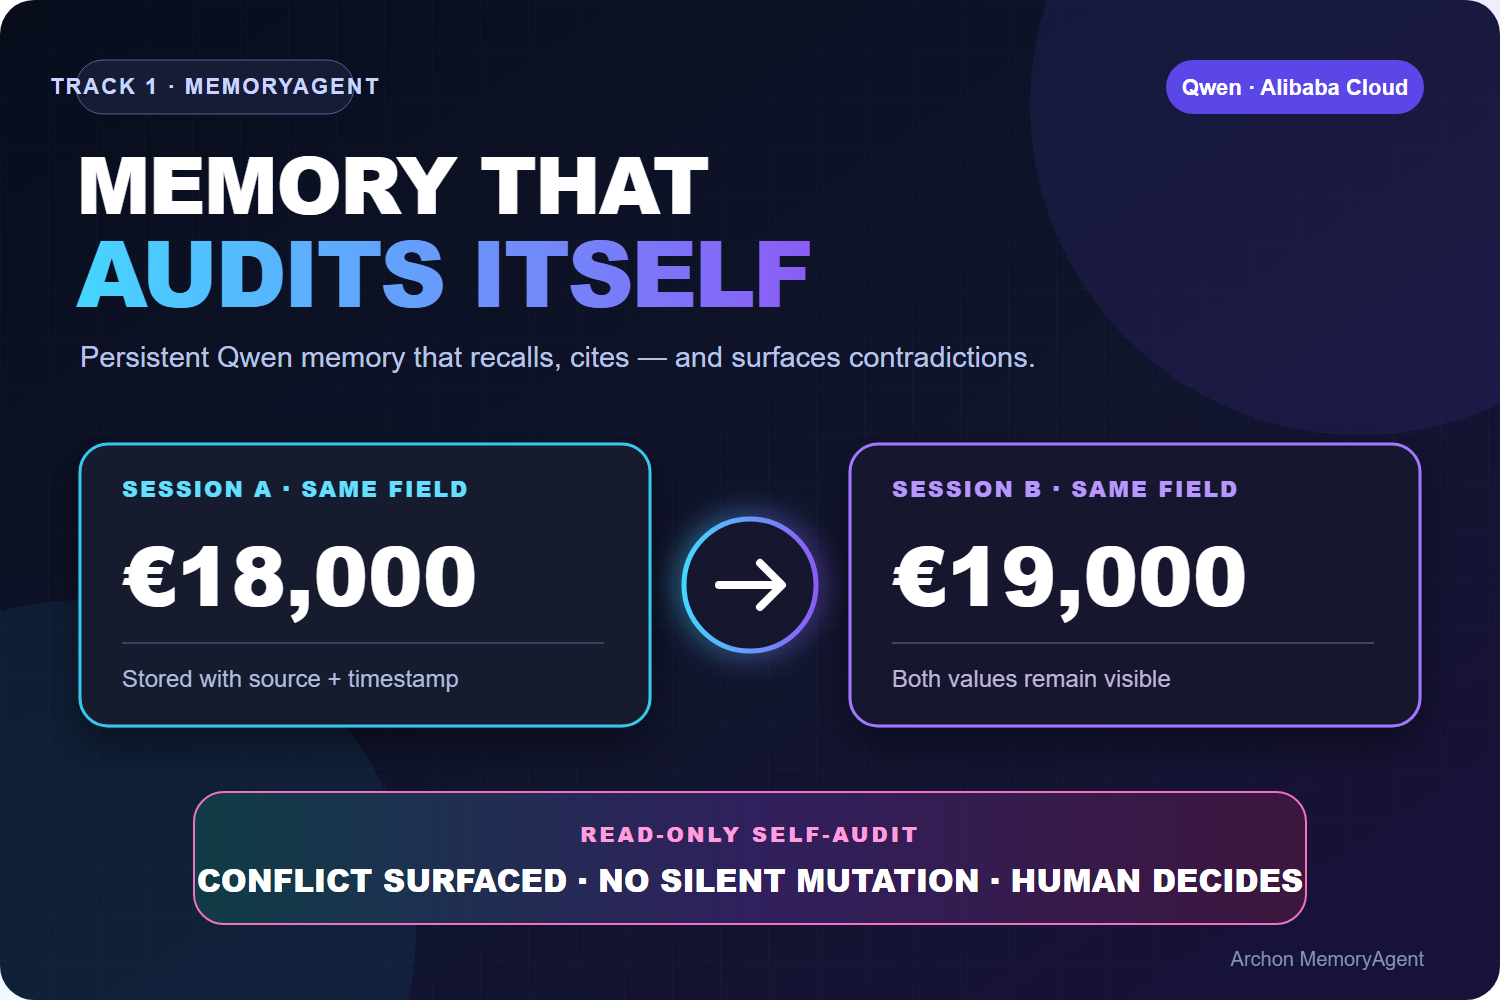
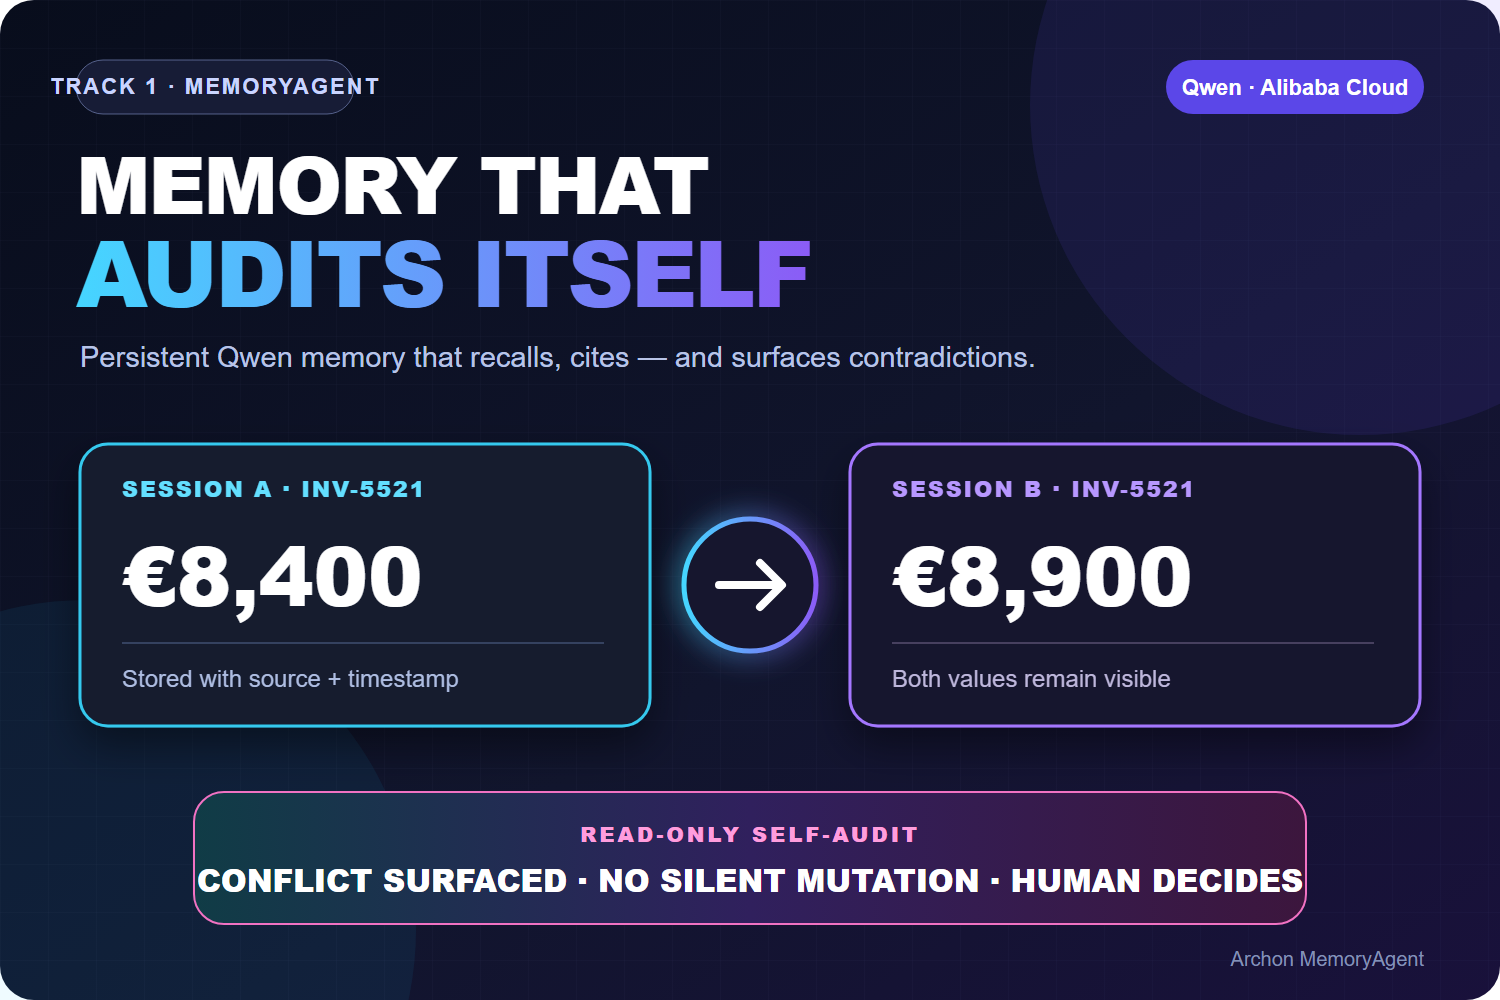
docs: unify submission proof and claims

diff --git a/scripts/capture_submission_gallery.py b/scripts/capture_submission_gallery.py
@@ -756,7 +756,7 @@ def browser_capture(
             GALLERY / PRIMARY_OUTPUTS[0],
             eyebrow="Fresh session · bounded recall",
             title="Qwen answers from durable memory — with citations",
-            subtitle="A new browser session asks by meaning; pgvector recall supplies the bounded evidence and qwen-plus grounds the answer in numbered sources.",
+            subtitle="On original synthetic demo data, a new browser session asks by meaning; pgvector supplies bounded evidence and qwen-plus grounds the answer in numbered sources.",
             badges=("qwen-plus", f"{len(recall['citations'])} citations", "pgvector"),
             base_url=base_url,
             expected_sha=expected_sha,
@@ -786,7 +786,7 @@ def browser_capture(
             GALLERY / PRIMARY_OUTPUTS[1],
             eyebrow="Read-only self-audit",
             title="Both values stay visible. Policy recommends — never rewrites.",
-            subtitle="INV-5521 preserves Session A and Session B provenance, then recommends the later 8,900 value under the declared recency rule.",
+            subtitle="Original synthetic INV-5521 preserves both sessions' provenance, then recommends the later 8,900 value under the declared recency rule.",
             badges=("INV-5521", "8,400 ↔ 8,900", "read-only"),
             base_url=base_url,
             expected_sha=expected_sha,
@@ -830,7 +830,7 @@ def browser_capture(
             GALLERY / PRIMARY_OUTPUTS[2],
             eyebrow="Meaning-level self-audit",
             title="Qwen catches the contradiction metadata rules cannot see",
-            subtitle="“Always pays on time” and “chronically late” share no numeric field. A bounded qwen-plus judge detects the opposed meaning and returns a read-only recommendation.",
+            subtitle="Original synthetic vendor claims share no numeric field. A bounded qwen-plus judge detects their opposed meaning and returns a read-only recommendation.",
             badges=(str(judge["model"]), f"{semantic.get('compared')} pair compared", "credential absent"),
             base_url=base_url,
             expected_sha=expected_sha,

diff --git a/demo/DEVPOST_STAGING.md b/demo/DEVPOST_STAGING.md
@@ -96,11 +96,31 @@ Use or edit this only if the form asks for tool feedback:
 
 ## Step 4 — additional information / custom questions
 
-- Paste the Track, repository, Alibaba proof, architecture and build-window answers
-  above into the matching custom fields, even if already present in the story.
-- For testing instructions, use the public no-login block in
-  [`DEVPOST_PRIVATE_TESTING.md`](./DEVPOST_PRIVATE_TESTING.md). Add the protected
-  credential block only through a visibility-confirmed judge/organizer channel.
+The live 2026-07-16 form exposes the following fields. Values marked **human** must
+be confirmed by the entrant and entered directly; the repository intentionally does
+not guess or retain them.
+
+| Actual Devpost field | Exact value / action |
+|---|---|
+| Submitter type | `[HUMAN CONFIRM: Individual / Team / Organization]` |
+| Organization name | Leave blank only if the confirmed submitter type is Individual/Team and no organization applies. |
+| Country of residence | `[HUMAN CONFIRM AND ENTER DIRECTLY]` — appears publicly in the gallery. |
+| Newly built or previously existing | **New** — the distinct entry repository starts 2026-07-01; retain the reuse disclosure below. |
+| Start date | **07-01-26** |
+| Required pre-May-26/update explanation | **Not applicable — this is a new competition-period project started July 1, 2026. It carries forward the Archon name and financial-analysis context only. During the submission period we built the standalone Qwen/Alibaba persistent memory store, hybrid recall and reranking, field- and meaning-level self-audits, explicit human conflict resolution, lifecycle controls, REST/MCP boundaries, evaluations, CI, and live deployment. Reused context is disclosed and is not claimed as newly authored evidence.** |
+| Track | **Track 1: MemoryAgent** |
+| Code repository | <https://github.com/upgradedev/archon-qwen-memoryagent> |
+| Alibaba/Qwen code file | <https://github.com/upgradedev/archon-qwen-memoryagent/blob/main/src/qwen/client.ts> |
+| Architecture Diagram upload | [`final-media/judge-architecture.jpg`](./final-media/judge-architecture.jpg) |
+| Alibaba Deployment Screenshot upload | [`gallery/08-alibaba-runtime-proof.png`](./gallery/08-alibaba-runtime-proof.png), only after `CAPTURE_REVIEW.json` passes for the exact deployment. |
+| Published Blog or Social Post | `[PUBLIC_BLOG_OR_SOCIAL_URL]`, only after signed-out verification. |
+| AI tools leveraged | **Qwen Cloud models (qwen-plus, qwen-vl-max, text-embedding-v4), OpenAI Codex, and Anthropic Claude.** |
+| Learning level | **Significant** |
+| Age-of-majority attestation | `[HUMAN LEGAL ATTESTATION REQUIRED]` |
+| Eligible-jurisdiction attestation | `[HUMAN LEGAL ATTESTATION REQUIRED]` |
+| Sponsor/affiliate/government-employment attestation | `[HUMAN LEGAL ATTESTATION REQUIRED]` |
+| Testing Instructions | Paste the public block from [`DEVPOST_PRIVATE_TESTING.md`](./DEVPOST_PRIVATE_TESTING.md), then add the active credential only in this judges-visible field after exact-deploy canaries pass. |
+
 - Confirm every entered answer is English.
 - Do not infer privacy from a field name. Save the draft, then inspect its public
   preview logged out before any live credential is added.

diff --git a/demo/VIDEO_SCRIPT.md b/demo/VIDEO_SCRIPT.md
@@ -20,7 +20,7 @@ time the candidate is not claimed as deployed and the recording gate is red.
 | 2 · Exact live proof | 0:14–0:29 | Sanitized exact-SHA release card, `/health`, then `/ready` | Keep commit provenance separate from endpoint/model readiness. Never imply `/health` attests the Git commit. |
 | 3 · Architecture + scale path | 0:29–0:53 | [`final-media/judge-architecture.jpg`](./final-media/judge-architecture.jpg), held long enough to read | Trace evidence → trust edge → Qwen → pgvector → hybrid cited answer → read-only audit/human decision; point to tenant-scoped REST/MCP and pg-wire portability without claiming unmeasured scale. |
 | 4 · Cross-session memory | 0:53–1:19 | Live Explorer plus generated Session A/Session B proof | Fresh Session B receives a grounded cited answer from Session A. Product default is hybrid; the proof exposes pure cosine only for readable similarity. |
-| 5 · Headline differentiator | 1:19–1:40 | Two writes, field self-audit, both values and recommendation | Show `€18,000` vs `€19,000`, provenance, `recency`, no silent mutation, and separate human Accept / Override / Defer. |
+| 5 · Headline differentiator | 1:19–1:40 | Original synthetic `INV-5521`, two writes, field self-audit, both values and recommendation | Show `€8,400` vs `€8,900`, provenance, `recency`, no silent mutation, and separate human Accept / Override / Defer. |
 | 6 · Meaning + MCP | 1:40–1:58 | “always pays on time” vs “chronically late”, Qwen result, four-tool MCP card | Separate the working live semantic mechanism from the offline 90% fixture and distinguish authenticated HTTP from trusted-local stdio. |
 | 7 · Timely forgetting | 1:58–2:10 | Authenticated lifecycle preview followed by confirmed result | Show dry-run first, explicit reason + confirmation, tenant scope, and auditable transition; no surprise deletion. |
 | 8 · Evidence, not hype | 2:10–2:35 | One clean evidence card | Field **5/5, 0 FP**; policy **4/4**; deterministic semantic **90% recall, 100% precision, 0 FP**; MRR **0.883→0.911**, Recall@3 **90.0%→96.7%**. Keep fixture labels visible; do not show historical dirty-tree v1.1 as release evidence. |
@@ -55,8 +55,8 @@ never remove a claim caveat.
 > bank, with citations. This proof view deliberately exposes pure cosine scores for
 > readability; the product default remains hybrid.
 >
-> Now the differentiator. Two sessions write 18,000 and 19,000 euros for the same
-> field. Archon preserves both values and provenance, detects the disagreement,
+> Now the differentiator. In the original synthetic demo, two sessions write 8,400
+> and 8,900 euros for `INV-5521.amount`. Archon preserves both values and provenance, detects the disagreement,
 > and recommends the newer value under the declared recency policy. It does not
 > silently rewrite memory. Accept, Override, or Defer is a separate human action.
 >
@@ -105,9 +105,9 @@ never remove a claim caveat.
 - Do not claim every recall shown in the generated proof is hybrid: that capture
   deliberately selects dense cosine recall so the displayed score is meaningful.
 - Do not claim Function Compute/RDS is the live topology.
-- Label the two intentional contradiction fixtures instead of intercutting them as
-  one record: authenticated fresh-capture footage uses `€18,000`/`€19,000`; the
-  fixed public Explorer demo and gallery screenshot use `INV-5521` `8400`/`8900`.
+- Label `INV-5521` and all other displayed business records as original synthetic
+  demo data. Use the same canonical `€8,400`/`€8,900` pair in the story, thumbnail,
+  public Explorer, screenshots, captions, and final video.
 - Do not publish a candidate whose duration is `>=175` seconds, whose voice rights
   are unverified, or whose frames contain third-party material without permission.
 

diff --git a/demo/SCREENSHOT_MANIFEST.md b/demo/SCREENSHOT_MANIFEST.md
@@ -6,13 +6,17 @@ Capture only from the verified release described in
 `demo/gallery/`. Do not fabricate a result, hand-edit a response value, or combine
 screens from different releases into one claimed live journey.
 
+Every invoice, payroll, vendor, and contradiction record visible in this gallery is
+original synthetic demo data. Retain that label wherever a business record is the
+focal proof.
+
 ## Primary Devpost gallery — upload in this order
 
 | Order | Canonical file | Required visible proof | English gallery caption |
 |---:|---|---|---|
-| 1 | `demo/gallery/01-grounded-cross-session-recall.png` | Live hostname, grounded answer, numbered memory citations | **A fresh session recalls a bounded slice of durable pgvector memory and grounds the Qwen answer in numbered evidence.** |
-| 2 | `demo/gallery/02-read-only-field-self-audit.png` | `INV-5521`, `8400`, `8900`, recency recommendation, no secret field value | **The read-only audit keeps both cross-session values visible and recommends a policy winner without rewriting history.** |
-| 3 | `demo/gallery/03-qwen-semantic-self-audit.png` | “always pays on time” vs “chronically late”, configured model/completion provenance; token fully absent/cropped | **Qwen catches a meaning-level contradiction with no shared numeric field; the result remains a recommendation, not an automatic edit.** |
+| 1 | `demo/gallery/01-grounded-cross-session-recall.png` | Live hostname, grounded answer, numbered memory citations | **On original synthetic demo data, a fresh session recalls a bounded slice of durable pgvector memory and grounds the Qwen answer in numbered evidence.** |
+| 2 | `demo/gallery/02-read-only-field-self-audit.png` | `INV-5521`, `8400`, `8900`, recency recommendation, no secret field value | **On original synthetic demo data, the read-only audit keeps both cross-session values visible and recommends a policy winner without rewriting history.** |
+| 3 | `demo/gallery/03-qwen-semantic-self-audit.png` | “always pays on time” vs “chronically late”, configured model/completion provenance; token fully absent/cropped | **On original synthetic vendor claims, Qwen catches a meaning-level contradiction with no shared numeric field; the result remains a recommendation, not an automatic edit.** |
 | 4 | `demo/gallery/04-human-resolution-control.png` | Accept/Override/Defer or equivalent response, provenance preserved | **A separate authenticated human decision can accept, override or defer the recommendation through one atomic, idempotent action.** |
 | 5 | `demo/gallery/05-safe-memory-lifecycle.png` | Preview plus confirmed consolidation/forgetting result, reason and tenant-safe status; no token | **Memory hygiene is explicit: preview first, then authenticated confirmation and reason, with an auditable state transition.** |
 | 6 | `demo/gallery/06-qwen-memoryagent-architecture.png` | No-crop 3:2 wrapper of the canonical architecture | **Qwen embeddings and narration, hybrid pgvector recall, read-only self-audit and human control are separated by explicit trust boundaries.** |

diff --git a/demo/BLOG.md b/demo/BLOG.md
@@ -9,8 +9,8 @@ memory starts to **disagree with itself**.
 
 A cross-session agent accumulates facts from many separate write events, over
 days, across processes. Nothing stops two of those writes from recording the same
-record two different ways: one session records a payroll event's employer cost at
-€18,000, a later session records €19,000 for the same event. A plain vector store does the worst
+record two different ways: in the original synthetic demo, one session records
+`INV-5521.amount` at €8,400 and a later session records €8,900 for the same field. A plain vector store does the worst
 possible thing here — it silently returns whichever one happened to rank higher,
 and never tells you the two ever conflicted. Your agent is now confidently wrong,
 and you have no way to know.
@@ -83,8 +83,9 @@ same-subject pairs by cosine, then asks the configured `QWEN_JUDGE_MODEL` whethe
 they directly contradict (`qwen-plus` is the rollback baseline; a candidate is
 eligible only after the versioned promotion gate), and a deterministic polarity/negation
 heuristic offline so it still runs in CI with no key. The online judge **fails
-closed**: any error or unparseable reply is treated as "no contradiction", never a
-manufactured one. It reuses the **same read-only resolution ladder** and, like the
+closed**: any error or unparseable reply returns an explicit `inconclusive` result
+with error metadata; it never masquerades as a clean no-conflict result or invents a
+contradiction. It reuses the **same read-only resolution ladder** and, like the
 rule-based path, **never mutates memory** — it runs *alongside* the field-level
 engine, additive, neither replacing the other. It is exposed over authenticated,
 quota-bounded HTTP and HTTP MCP (the `audit_memory` tool takes `semantic: true`),

diff --git a/demo/SUBMISSION.md b/demo/SUBMISSION.md
@@ -24,8 +24,9 @@ recording tooling only.
 ## Archon MemoryAgent — a memory that audits itself
 
 **AI agents and assistants forget the moment a session ends** — and when they *do*
-carry facts forward, they silently contradict themselves. One session records a
-figure as €18,000; a later session records €19,000 for the same record; plain vector
+carry facts forward, they silently contradict themselves. In the original synthetic
+demo, one session records `INV-5521.amount` as €8,400 and a later session records
+€8,900 for the same field; plain vector
 recall just returns whichever ranked higher and stays quiet. Anyone building agents
 that must stay consistent over time — support copilots, research assistants,
 financial-document pipelines — inherits a memory they can't trust. **Archon
@@ -97,4 +98,4 @@ https://github.com/upgradedev/archon-qwen-memoryagent
 **Operator-only Alibaba Cloud proof reference (use the dedicated form field):** the DashScope OpenAI-compatible client (base URL + Qwen
 instantiation) is
 [`src/qwen/client.ts`](https://github.com/upgradedev/archon-qwen-memoryagent/blob/main/src/qwen/client.ts);
-app-specific runtime proof recording: `demo/gallery/memoryagent-alibaba-runtime-proof.mp4` (to be captured from the verified live deployment during final media production; raw console footage stays ignored under `demo/private-originals/`).
+app-specific runtime proof image: `demo/gallery/08-alibaba-runtime-proof.png` (generated only from exact-deploy controller evidence plus sanitized Alibaba console and live readiness inputs; raw captures stay ignored under `demo/private-originals/`).

diff --git a/demo/POST_DRAFTS.md b/demo/POST_DRAFTS.md
@@ -4,11 +4,11 @@ Replace only bracketed placeholders after the video/blog is public. All numerica
 
 ## Short launch post (X / Bluesky)
 
-AI memory should not stay silent when it contradicts itself. We built Archon MemoryAgent for the Qwen Cloud hackathon: persistent pgvector recall, cited Qwen answers, and read-only conflict recommendations. Live: https://memory.43.106.13.19.sslip.io Repo: https://github.com/upgradedev/archon-qwen-memoryagent #Qwen #AlibabaCloud #AI
+AI memory shouldn't hide its own conflicts. Archon MemoryAgent gives Qwen persistent pgvector recall, cited answers, and read-only contradiction recommendations. Live: https://memory.43.106.13.19.sslip.io #QwenCloudHackathon
 
 ## Video launch post (X / Bluesky)
 
-What happens when an agent remembers €8,400 in one session and €8,900 in another? Archon MemoryAgent surfaces both and recommends—without rewriting history. Track 1 demo: [PUBLIC_VIDEO_URL] Live: https://memory.43.106.13.19.sslip.io #QwenCloudHackathon
+In our original synthetic demo, one session remembers €8,400 and another €8,900. Archon MemoryAgent surfaces both and recommends—without rewriting history. Video: [PUBLIC_VIDEO_URL] Live: https://memory.43.106.13.19.sslip.io #QwenCloudHackathon
 
 ## LinkedIn launch post
 

diff --git a/demo/ALIBABA_PROOF.md b/demo/ALIBABA_PROOF.md
@@ -37,7 +37,7 @@ recording and submission stay blocked until it records the new exact deployment.
 Use the release gate in [`FINAL_MEDIA_CHECKLIST.md`](./FINAL_MEDIA_CHECKLIST.md): `/ready` must report database/Qwen/auth ready, `/health` must report the real Qwen model ids, and the public plus protected reviewer-credential paths must pass. Protected writes and semantic audit require the dedicated judging credential; do not record or publish it. The optional `Generate Authenticated Demo Video` workflow consumes that value only from the private `MEMORYAGENT_JUDGE_API_KEY` Actions secret and never renders it; its artifact still requires the same final human review.
 
 - **Live backend URL:** provided in the submission form (see [`deploy/DEPLOY_STATE.md`](./../deploy/DEPLOY_STATE.md) for the current address); `GET /health` returns the active embedding, narration, and semantic-judge model ids plus the 1024-dim vector size.
-- **Proof recording (separate from the demo video):** capture the MemoryAgent-specific `demo/gallery/memoryagent-alibaba-runtime-proof.mp4` only after the candidate is exact-deployed and verified. It must show this app's ECS process/container, MemoryAgent `/ready`, its `/health` response with all three active model ids, and the MemoryAgent URL in one sanitized sequence. Do not reuse another entry's proof recording. Keep raw console capture in ignored `demo/private-originals/`; only the sanitized final belongs in `demo/gallery/`.
+- **Proof image (also reusable as a final-video proof frame):** generate the MemoryAgent-specific `demo/gallery/08-alibaba-runtime-proof.png` only after the candidate is exact-deployed and verified. The compositor requires the same deploy-controller SHA/status/output, a sanitized Alibaba console capture, MemoryAgent `/ready`, `/health` with all three active model ids, and the MemoryAgent URL. Do not reuse another entry's proof. Keep raw console capture in ignored `demo/private-originals/`; only the sanitized composite belongs in `demo/gallery/`.
 
 ## Single-file link for the submission form
 

diff --git a/demo/FINAL_MEDIA_CHECKLIST.md b/demo/FINAL_MEDIA_CHECKLIST.md
@@ -60,7 +60,7 @@ metadata but does not authorize publication.
 | 0:14–0:29 | Sanitized exact-runtime-SHA release card, `/health`, `/ready` | Commit provenance is separate from endpoint/model readiness. Never show environment variables. |
 | 0:29–0:53 | `demo/final-media/judge-architecture.jpg` | Trust boundary, Qwen, pgvector, hybrid cited recall, read-only audit/human resolution, and portable REST/MCP/pg-wire seams. |
 | 0:53–1:19 | Session A write/disconnect, fresh Session B cited recall | `€15,800` true cost versus `€10,000` bank outflow; dense score is exposed only for this human-readable proof while product default remains hybrid. |
-| 1:19–1:40 | Two writes plus field self-audit | `€18,000` versus `€19,000`, provenance, recency recommendation, and no silent mutation. |
+| 1:19–1:40 | Original synthetic `INV-5521` plus field self-audit | `€8,400` versus `€8,900`, provenance, recency recommendation, and no silent mutation. |
 | 1:40–1:58 | Cropped authenticated semantic result plus four-tool MCP card | “Pays on time” versus “chronically late”; hide the credential/request header and distinguish authenticated HTTP from trusted-local stdio. |
 | 1:58–2:10 | Authenticated lifecycle preview followed by confirmed result | Dry-run first, explicit reason + confirmation, tenant scope, and auditable transition; no surprise deletion. |
 | 2:10–2:35 | One prepared evidence card | 5/5 field issues with 0 FP; 4/4 policy conformance; deterministic semantic 90% recall/100% precision/0 FP; MRR 0.883→0.911 and Recall@3 90.0%→96.7%. Keep fixture labels/caveats visible. |